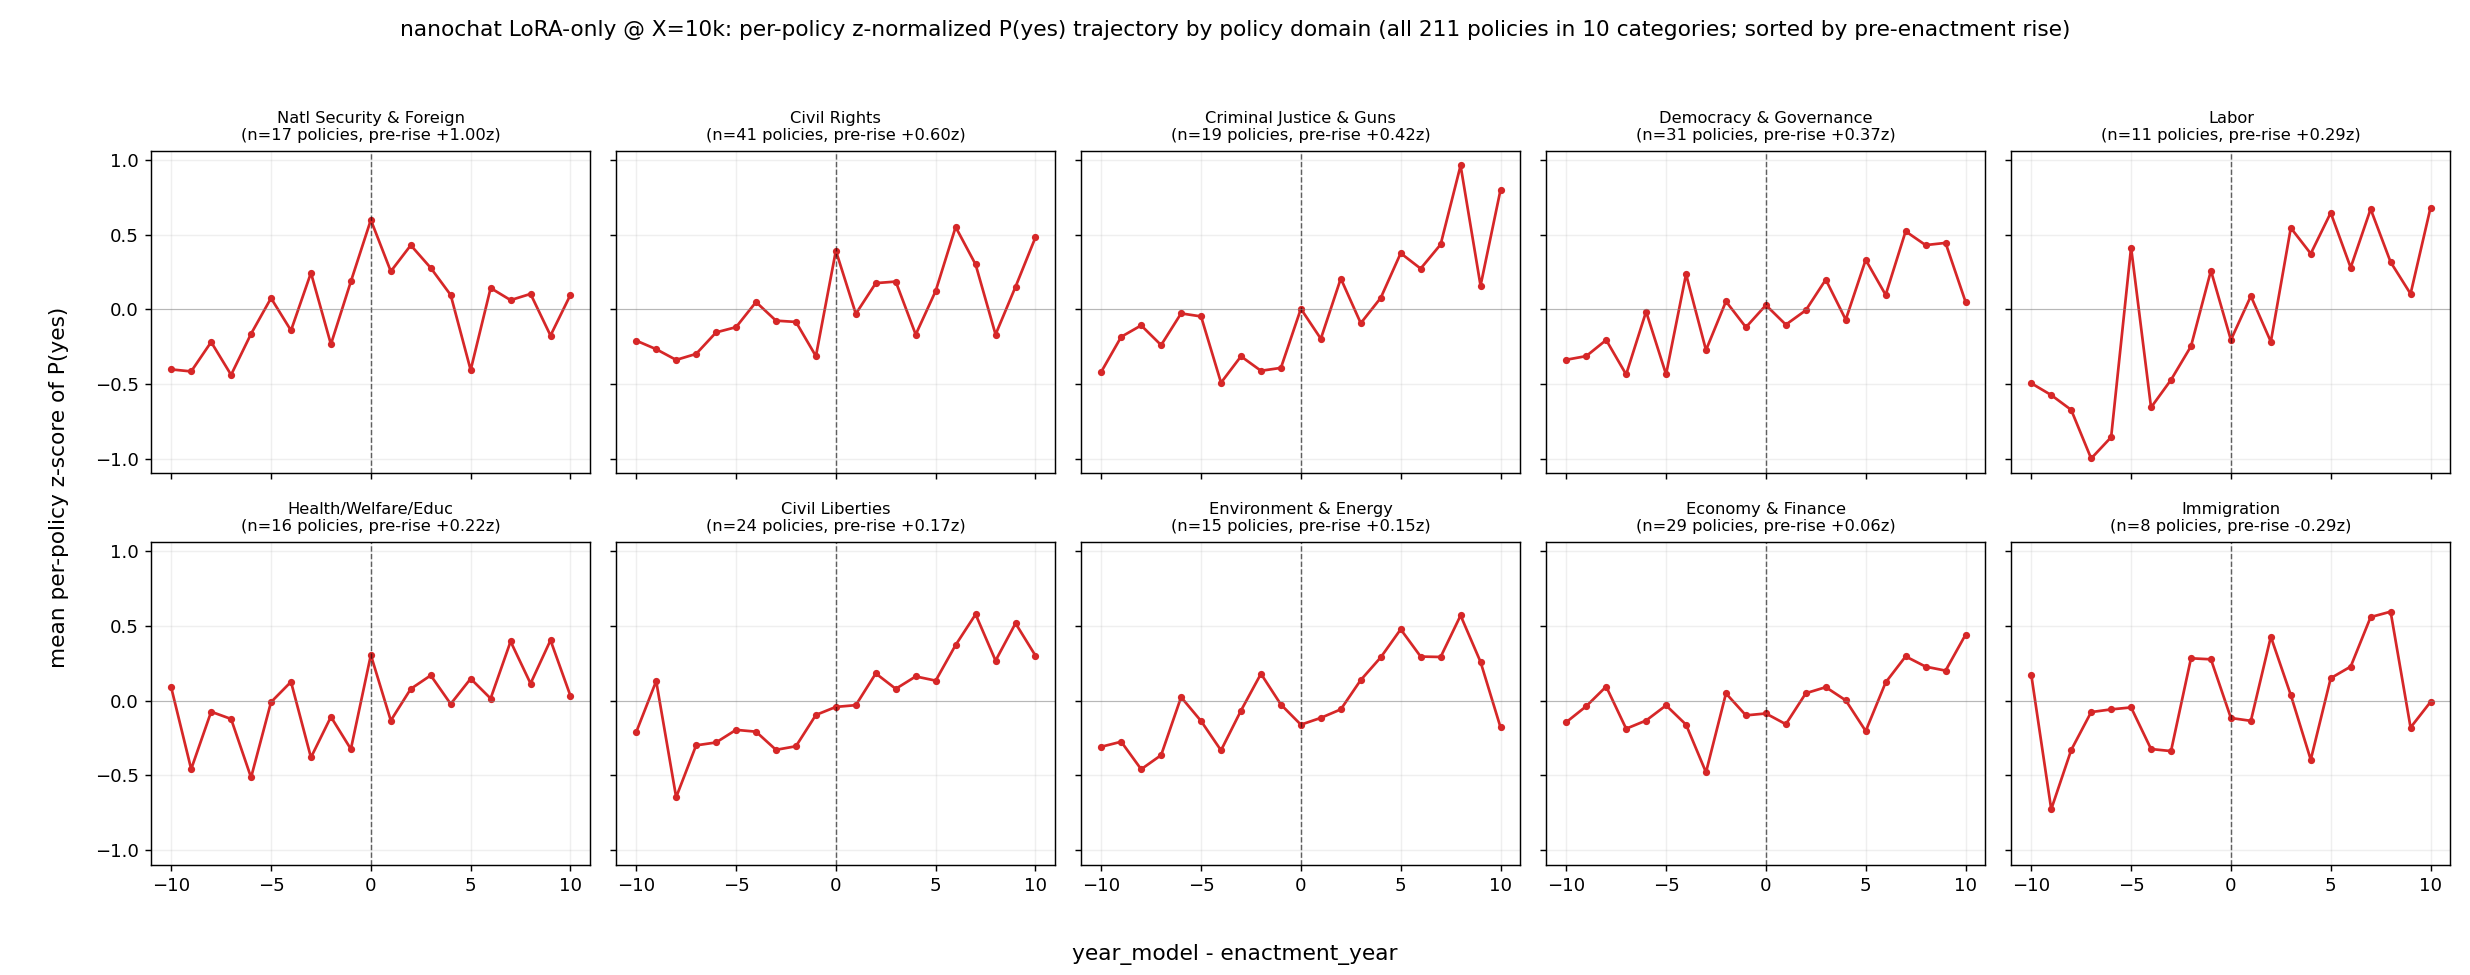
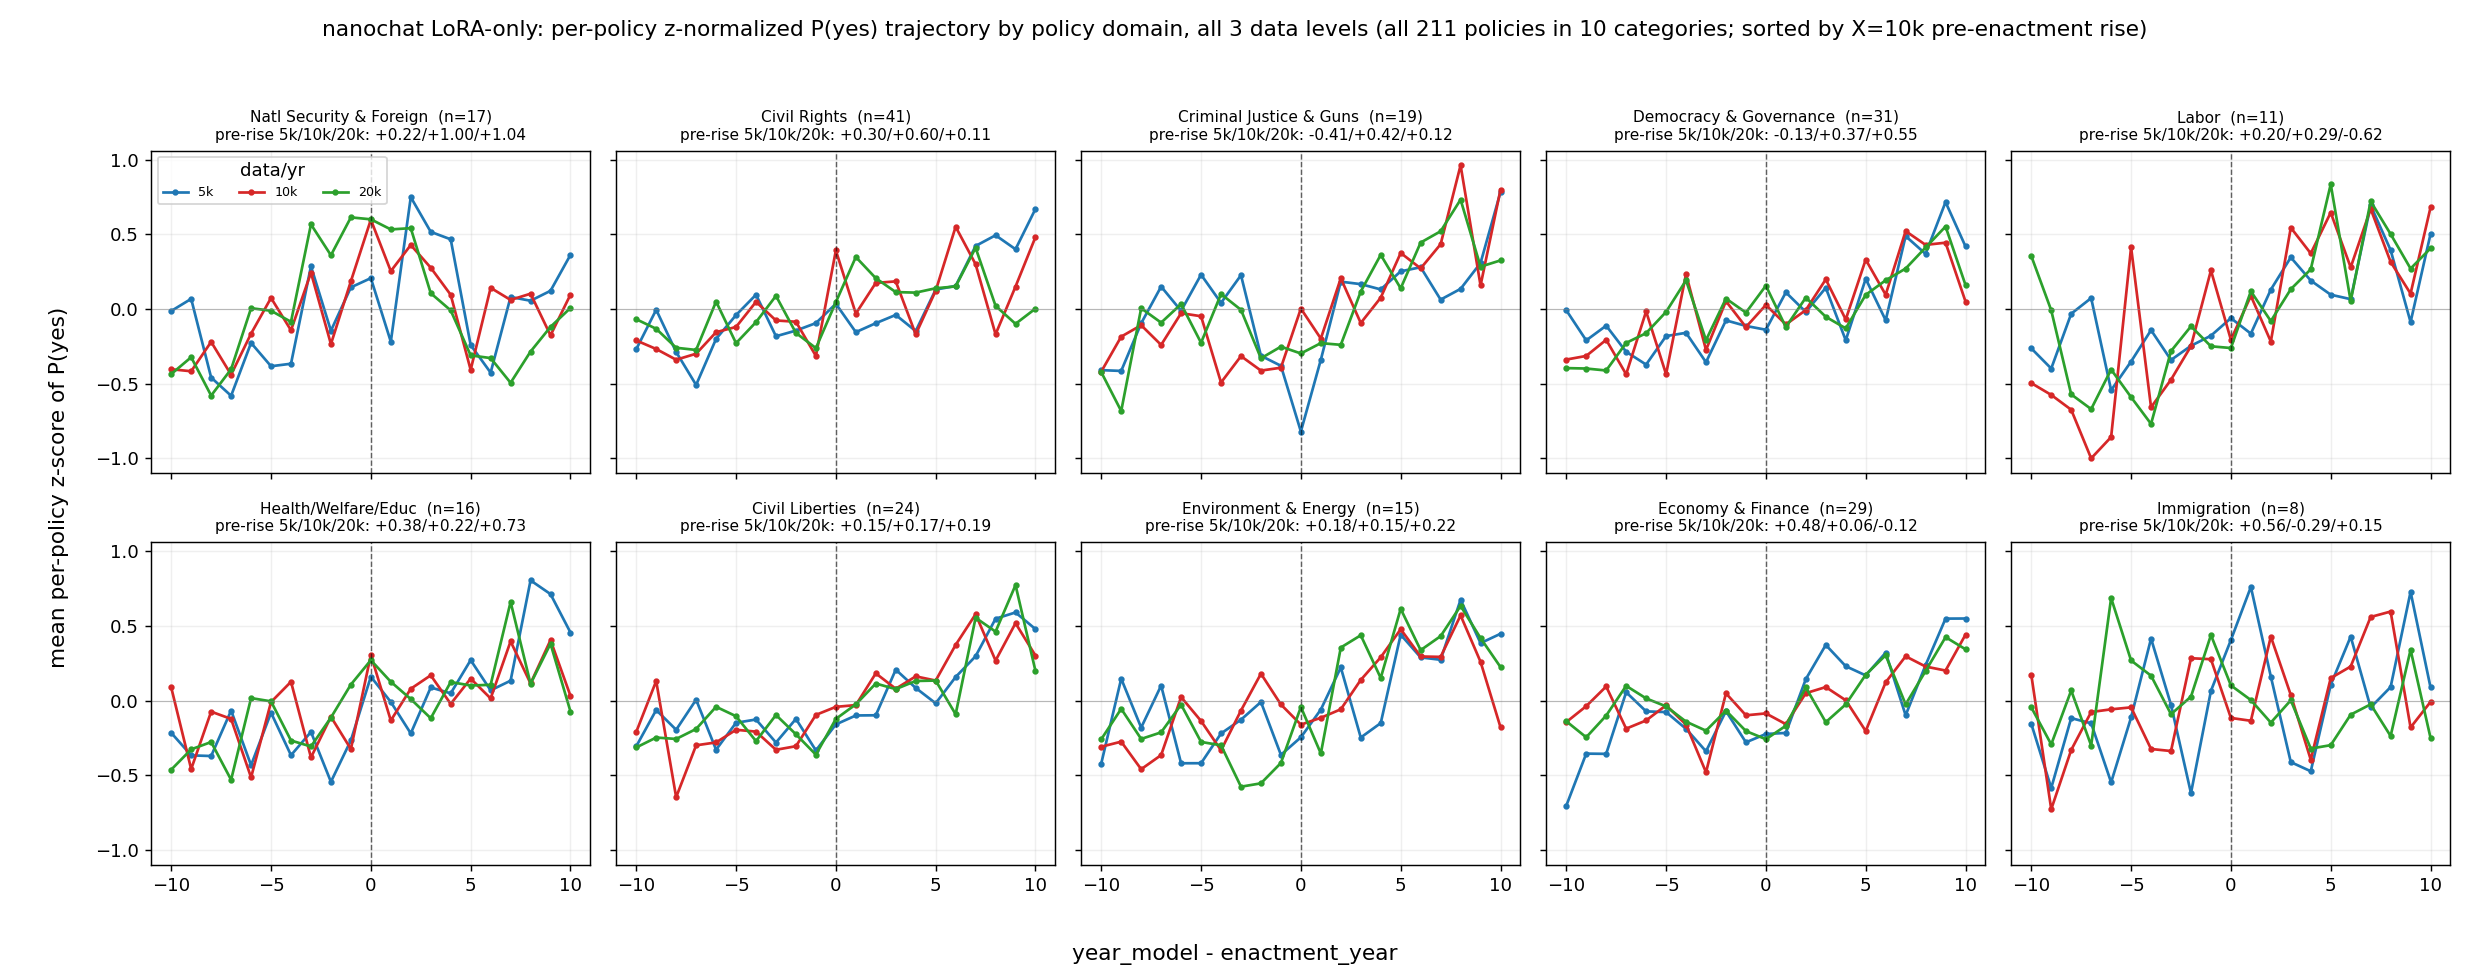
findings(nanochat): overlay all 3 data levels (5k/10k/20k) on the per-domain z-trajectory small-multiples
Each domain panel now shows 5k/10k/20k z-curves together (per-level pre-rise in
the title) instead of 10k only. n-shape + domain bar unchanged.

diff --git a/docs/findings/2026-06/nanochat_sweep/make_figures.py b/docs/findings/2026-06/nanochat_sweep/make_figures.py
@@ -102,17 +102,26 @@ for cat in TAXONOMY:
     cat_data[cat] = dict(npol=npol, z=z, inc=inc)
 ordered = sorted(TAXONOMY, key=lambda c: cat_data[c]["inc"], reverse=True)
 
-# =================== FIG 2: domain small-multiples (z-normalized) ===================
+# =================== FIG 2: domain small-multiples (z-normalized, all 3 data levels) ===================
+byXcat = {x: {cat: [r for r in byX[x] if r["cat"] == cat] for cat in TAXONOMY} for x in XS}
+def preinc(z):
+    pre = [st.mean(z[k]) for k in range(-10, 1) if z.get(k)]
+    return (pre[-1] - pre[0]) if len(pre) >= 2 else float("nan")
 fig, axes = plt.subplots(2, 5, figsize=(19, 7.5), sharex=True, sharey=True)
 for ax, cat in zip(axes.flat, ordered):
-    d = cat_data[cat]
-    ax.plot(RELS, curve(d["z"]), "-o", ms=3, color="#d62728")
+    incs_lvl = []
+    for x in XS:
+        z = per_policy_z(byXcat[x][cat])
+        ax.plot(RELS, curve(z), "-o", ms=2.5, color=colors[x], label=f"{x//1000}k")
+        incs_lvl.append(preinc(z))
     ax.axvline(0, color="k", lw=.8, ls="--", alpha=.6); ax.axhline(0, color="gray", lw=.6, alpha=.5)
-    ax.set_title(f"{cat}\n(n={d['npol']} policies, pre-rise {d['inc']:+.2f}z)", fontsize=9)
+    ax.set_title(f"{cat}  (n={cat_data[cat]['npol']})\npre-rise 5k/10k/20k: "
+                 f"{incs_lvl[0]:+.2f}/{incs_lvl[1]:+.2f}/{incs_lvl[2]:+.2f}", fontsize=8.5)
     ax.grid(alpha=.2)
+axes[0, 0].legend(fontsize=7, title="data/yr", ncol=3)
 fig.supxlabel("year_model - enactment_year"); fig.supylabel("mean per-policy z-score of P(yes)")
-fig.suptitle("nanochat LoRA-only @ X=10k: per-policy z-normalized P(yes) trajectory by policy domain "
-             "(all 211 policies in 10 categories; sorted by pre-enactment rise)", fontsize=12)
+fig.suptitle("nanochat LoRA-only: per-policy z-normalized P(yes) trajectory by policy domain, all 3 data levels "
+             "(all 211 policies in 10 categories; sorted by X=10k pre-enactment rise)", fontsize=12)
 fig.tight_layout(rect=[0.01, 0.02, 1, 0.95])
 fig.savefig(HERE / "figures" / "domain_znorm_smallmult.png", dpi=130); plt.close(fig)
 print("wrote domain_znorm_smallmult.png")
